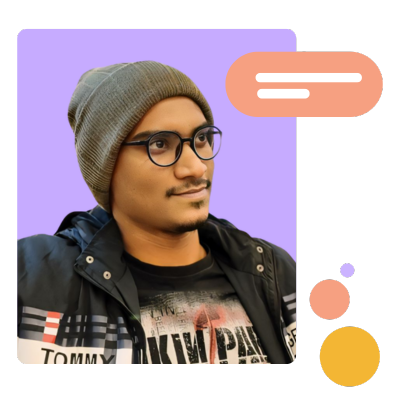
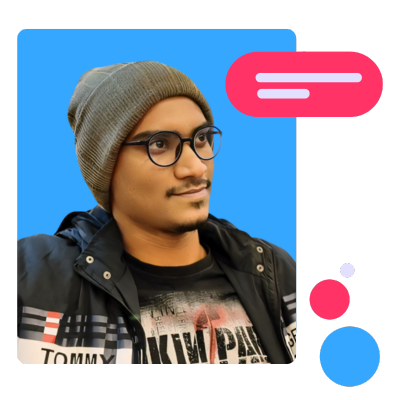
Hero section color change.

Changed region(s): [[0.03, 0.06, 0.96, 0.66], [0.75, 0.66, 0.96, 0.99]]

diff --git a/src/components/hero/Hero.jsx b/src/components/hero/Hero.jsx
@@ -8,6 +8,7 @@ import {
   FaLinkedin,
 } from "react-icons/fa";
 import { MdCall, MdFileDownload } from "react-icons/md";
+import { Cursor, useTypewriter } from "react-simple-typewriter";
 import heroImg from "../../assets/images/hero_image.png";
 
 export default function Hero() {
@@ -40,9 +41,36 @@ export default function Hero() {
     },
   };
 
+  const mouseBlink = {
+    hidden: {
+      opacity: 1,
+    },
+    visible: {
+      opacity: [0, 1, 0.1],
+      transition: {
+        duration: 2,
+        repeat: Infinity,
+      },
+    },
+  };
+
+  const [text] = useTypewriter({
+    words: [
+      "Software Engineer.",
+      "Sqa Engineer.",
+      "Full Stack Developer.",
+      "AI Engineer.",
+      "Seo Specialist.",
+    ],
+    loop: true,
+    typeSpeed: 30,
+    deleteSpeed: 30,
+    delaySpeed: 1500,
+  });
+
   return (
     <div id="home">
-      <div className="w-full min-h-screen xl:h-screen flex bg-lightBG overflow-hidden relative justify-center items-center">
+      <div className="w-full min-h-screen xl:h-screen flex bg-darkBG1 overflow-hidden relative justify-center items-center">
         <div className="px-7 sml:px-9 py-20 md:px-12 lg:px-20 flex flex-col gap-10 xl:gap-0 lg:flex-row z-[3]">
           <motion.div
             variants={textVariants}
@@ -50,7 +78,7 @@ export default function Hero() {
             animate="visible"
             className="w-full lg:w-[60%] xl:w-[55%] flex flex-col gap-5 justify-center items-center"
           >
-            <div className="w-full flex flex-row-reverse lg:flex-row justify-between">
+            <div className="w-full flex flex-row-reverse lg:flex-row justify-between text-textColo1">
               <motion.div
                 variants={textVariants}
                 className=" w-[30%] md:w-[25%] lgl:w-[30%] xl:w-[25%] text-xs sml:text-base md:text-lg lg:text-base xl:text-xl leading-none text-end lg:text-start uppercase"
@@ -60,27 +88,32 @@ export default function Hero() {
               <div className="w-[65%] md:w-[70%] lgl:w-[65%] xl:w-[70%] flex flex-col gap-2">
                 <motion.h1
                   variants={textVariants}
-                  className="font-titleFont font-bold text-2xl sml:text-4xl md:text-5xl mdl:text-6xl lg:text-4xl xl:text-6xl leading-none lg:text-end"
+                  className="font-titleFont font-bold text-2xl sml:text-4xl md:text-5xl mdl:text-6xl lg:text-4xl xl:text-6xl leading-none lg:text-end text-titleColor1"
                 >
                   Hi, I am{" "}
                 </motion.h1>
-                <p className="uppercase text-darkAccent font-titleFont font-bold text-2xl sml:text-4xl md:text-5xl mdl:text-6xl lg:text-4xl xl:text-6xl leading-none lg:text-end">
+                <p className="uppercase text-accentColor1 font-titleFont font-bold text-2xl sml:text-4xl md:text-5xl mdl:text-6xl lg:text-4xl xl:text-6xl leading-none lg:text-end">
                   Shaed Noor
                 </p>
               </div>
             </div>
             <div className="w-full flex">
-              <p className="text-xl sml:text-2xl md:text-4xl lg:text-3xl xl:text-4xl leading-none">
+              <p className="text-xl sml:text-2xl md:text-4xl lg:text-3xl xl:text-4xl leading-none text-titleColor1">
                 An Expert{" "}
-                <span className="font-handFont text-2xl sml:text-3xl md:text-5xl lg:text-4xl xl:text-5xl">
-                  Full Stack Developer.
+                <span className="font-handFont text-2xl ps-2 md:ps-1 mdl:ps-2 sml:text-3xl md:text-5xl lg:text-4xl xl:text-5xl">
+                  {text}
                 </span>
+                <Cursor
+                  cursorBlinking="false"
+                  cursorStyle="|"
+                  cursorColor="#ff014f"
+                />
               </p>
             </div>
             <div className="w-full flex flex-row-reverse">
               <motion.div
                 variants={textVariants}
-                className="w-full xl:w-[85%] text-sm md:text-base text-center md:text-end"
+                className="w-full xl:w-[85%] text-sm md:text-base text-center md:text-end text-textColo1"
               >
                 Dynamic, motivated, hardworking, keen about the changes in the
                 dynamic world of computer science technology. I want to export
@@ -95,7 +128,7 @@ export default function Hero() {
                 variants={textVariants}
                 className="w-[50%] flex justify-center items-center"
               >
-                <a className="flex flex-row gap-1 justify-center items-center px-5 py-[9px] text-white rounded bg-darkAccent hover:scale-[1.1] cursor-pointer duration-[400ms] text-[10px] sml:text-xs md:text-base">
+                <a className="flex flex-row gap-1 justify-center items-center px-5 py-[9px] text-titleColor1 rounded bg-primaryColor1 hover:scale-[1.1] cursor-pointer duration-[400ms] text-[10px] sml:text-xs md:text-base">
                   <span className="text-lg">
                     <MdFileDownload />
                   </span>
@@ -106,7 +139,7 @@ export default function Hero() {
                 variants={textVariants}
                 className="w-[50%] flex justify-center items-center"
               >
-                <a className="flex flex-row gap-1 justify-center items-center px-5 py-2 text-darkAccent rounded border border-darkAccent hover:scale-[1.1] cursor-pointer duration-[400ms] text-[10px] sml:text-xs md:text-base">
+                <a className="flex flex-row gap-1 justify-center items-center px-5 py-2 text-primaryColor1 rounded border border-primaryColor1 hover:scale-[1.1] cursor-pointer duration-[400ms] text-[10px] sml:text-xs md:text-base">
                   <span className="text-lg">
                     <MdCall />
                   </span>
@@ -131,41 +164,32 @@ export default function Hero() {
             >
               <motion.div
                 variants={iconVariants}
-                className="p-2 text-2xl text-darkAccent rounded"
+                className="p-2 text-2xl text-textColo1 rounded hover:text-primaryColor1 cursor-pointer"
               >
                 <FaFacebookF />
               </motion.div>
               <motion.div
                 variants={iconVariants}
-                className="p-2 text-2xl text-darkAccent rounded"
+                className="p-2 text-2xl text-textColo1 rounded hover:text-primaryColor1 cursor-pointer"
               >
                 <FaLinkedin />
               </motion.div>
               <motion.div
                 variants={iconVariants}
-                className="p-2 text-2xl text-darkAccent rounded"
+                className="p-2 text-2xl text-textColo1 rounded hover:text-primaryColor1 cursor-pointer"
               >
                 <FaInstagramSquare />
               </motion.div>
               <motion.div
                 variants={iconVariants}
-                className="p-2 text-2xl text-darkAccent rounded"
+                className="p-2 text-2xl text-textColo1 rounded hover:text-primaryColor1 cursor-pointer"
               >
                 <FaGithub />
               </motion.div>
             </motion.div>
           </div>
         </div>
-        {/* <motion.div
-          variants={iconVariants}
-          initial="hidden"
-          animate="visible"
-          className="w-full flex justify-end lg:justify-start absolute -bottom-4 md:-bottom-6 lg:-bottom-7 lgl:-bottom-10 z-[0]"
-        >
-          <p className="text-[20vh] md:text-[30vh] lg:text-[35vh] xl:text-[40vh] leading-none font-titleFont uppercase font-bold opacity-10 whitespace-nowrap">
-            Syed
-          </p>
-        </motion.div> */}
+
         <motion.div
           variants={iconVariants}
           initial="hidden"
@@ -174,22 +198,27 @@ export default function Hero() {
         >
           <motion.p
             variants={iconVariants}
-            className="uppercase flex justify-center items-center text-darkBG font-titleFont text-xs md:text-base"
+            className="uppercase flex justify-center items-center text-textColo1 font-titleFont text-xs md:text-base"
           >
-            <span className="pe-2">
+            <motion.span
+              variants={mouseBlink}
+              initial="hidden"
+              animate="visible"
+              className="pe-2"
+            >
               <CgMouse />
-            </span>
+            </motion.span>
             Scroll down
           </motion.p>
           <motion.p
             variants={iconVariants}
-            className="text-darkBG font-titleFont font-bold text-base md:text-lg lgl:text-xl"
+            className="text-accentColor1 font-titleFont font-bold text-base md:text-lg lgl:text-xl"
           >
             <FaChevronCircleDown />
           </motion.p>
           <motion.p
             variants={iconVariants}
-            className="uppercase text-darkBG font-titleFont text-xs md:text-base"
+            className="uppercase text-textColo1 font-titleFont text-xs md:text-base"
           >
             To Learn More
           </motion.p>

diff --git a/src/components/navbar/Navbar.jsx b/src/components/navbar/Navbar.jsx
@@ -1,11 +1,18 @@
 // eslint-disable-next-line no-unused-vars
-import React from "react";
-import { RiMenu3Line } from "react-icons/ri";
-// import logo from "../../assets/images/title_logo.png";
 import { AnimatePresence, motion } from "framer-motion";
-import { useState } from "react";
+import React, { useState } from "react";
 import { CgClose } from "react-icons/cg";
+import { RiMenu3Line } from "react-icons/ri";
 import { Link } from "react-scroll";
+// import logo from "../../assets/images/title_logo.png";
+import { AiFillProject } from "react-icons/ai";
+import { FaHome } from "react-icons/fa";
+import { IoMdContact } from "react-icons/io";
+import {
+  MdHomeRepairService,
+  MdPermContactCalendar,
+  MdRateReview,
+} from "react-icons/md";
 
 export default function Navbar() {
   const [toggleMenu, setToggleMenu] = useState(false);
@@ -14,12 +21,14 @@ export default function Navbar() {
   };
   return (
     <div className="">
-      <div className="w-full h-12 flex z-[999] px-7 sml:px-9 md:px-12 lg:px-20 justify-end items-center fixed bg-lightBG">
-        <div
-          className="p-2 bg-darkBG text-lightBG rounded text-xl cursor-pointer"
-          onClick={handleToggle}
-        >
-          <RiMenu3Line />
+      <div className="w-full flex z-[999] justify-end items-center fixed">
+        <div className="flex p-3 md:p-5 rounded">
+          <div
+            className="p-2 bg-darkBG text-lightBG rounded text-xl md:text-2xl lg:text-3xl cursor-pointer shadow-black shadow-md"
+            onClick={handleToggle}
+          >
+            <RiMenu3Line />
+          </div>
         </div>
       </div>
       <AnimatePresence>
@@ -28,7 +37,7 @@ export default function Navbar() {
             initial={{ x: "-100%" }}
             animate={{ x: 0, transition: { duration: 0.5 } }}
             exit={{ x: "-100%", transition: { duration: 0.5 } }}
-            className="w-[60%] md:w-[50%] lg:w-[30%] h-screen flex flex-col z-[1000] px-20 py-5 fixed bg-darkBG bg-opacity-[0.95] backdrop-blur-sm text-gray-200"
+            className="w-[60%] md:w-[50%] lg:w-[30%] h-screen flex flex-col z-[1000] px-7 sml:px-9 md:px-12 lg:px-20 py-5 fixed bg-darkBG bg-opacity-[0.95] backdrop-blur-sm text-gray-200"
           >
             <div className="text-2xl cursor-pointer" onClick={handleToggle}>
               <CgClose />
@@ -37,73 +46,91 @@ export default function Navbar() {
               <Link
                 to="home"
                 activeClass="active"
-                className="cursor-pointer"
+                className="cursor-pointer flex flex-row items-center gap-2"
                 spy={true}
                 smooth={true}
-                offset={-30}
+                offset={0}
                 duration={500}
                 onClick={handleToggle}
               >
+                <span className="text-2xl">
+                  <FaHome />
+                </span>
                 Home
               </Link>
               <Link
                 to="about"
                 activeClass="active"
-                className="cursor-pointer"
+                className="cursor-pointer flex flex-row items-center gap-2"
                 spy={true}
                 smooth={true}
-                offset={-30}
+                offset={0}
                 duration={500}
                 onClick={handleToggle}
               >
+                <span className="text-2xl">
+                  <MdPermContactCalendar />
+                </span>
                 About
               </Link>
               <Link
                 to="services"
                 activeClass="active"
-                className="cursor-pointer"
+                className="cursor-pointer flex flex-row gap-2 items-center"
                 spy={true}
                 smooth={true}
-                offset={-30}
+                offset={0}
                 duration={500}
                 onClick={handleToggle}
               >
+                <span className="text-2xl">
+                  <MdHomeRepairService />
+                </span>
                 Expertise
               </Link>
               <Link
                 to="projects"
                 activeClass="active"
-                className="cursor-pointer"
+                className="cursor-pointer flex flex-row items-center gap-2"
                 spy={true}
                 smooth={true}
-                offset={-30}
+                offset={0}
                 duration={500}
                 onClick={handleToggle}
               >
-                Projects
+                <span className="text-2xl">
+                  <AiFillProject />
+                </span>
+                Portfolio
               </Link>
               <Link
                 to="testimonial"
                 activeClass="active"
-                className="cursor-pointer"
+                className="cursor-pointer flex flex-row items-center gap-2"
                 spy={true}
                 smooth={true}
-                offset={-30}
+                offset={0}
                 duration={500}
                 onClick={handleToggle}
               >
+                <span className="text-2xl">
+                  <MdRateReview />
+                </span>
                 Testimonial
               </Link>
               <Link
                 to="contact"
                 activeClass="active"
-                className="cursor-pointer"
+                className="cursor-pointer flex flex-row items-center gap-2"
                 spy={true}
                 smooth={true}
-                offset={-30}
+                offset={0}
                 duration={500}
                 onClick={handleToggle}
               >
+                <span className="text-2xl">
+                  <IoMdContact />
+                </span>
                 Contact
               </Link>
             </div>

diff --git a/tailwind.config.js b/tailwind.config.js
@@ -30,6 +30,11 @@ export default {
         lightTitle: "#ffe4ea",
         darkText: "#636e6e",
         lightText: "#f7f6f7",
+        darkBG1: "#00171F",
+        primaryColor1: "#35A7FF",
+        accentColor1: "#FF3366",
+        titleColor1: "#F6F7F8",
+        textColo1: "#E3DFFF",
       },
       boxShadow: {
         shadow1: "0px -12.5px 0 0 rgb(20 22 24)",
